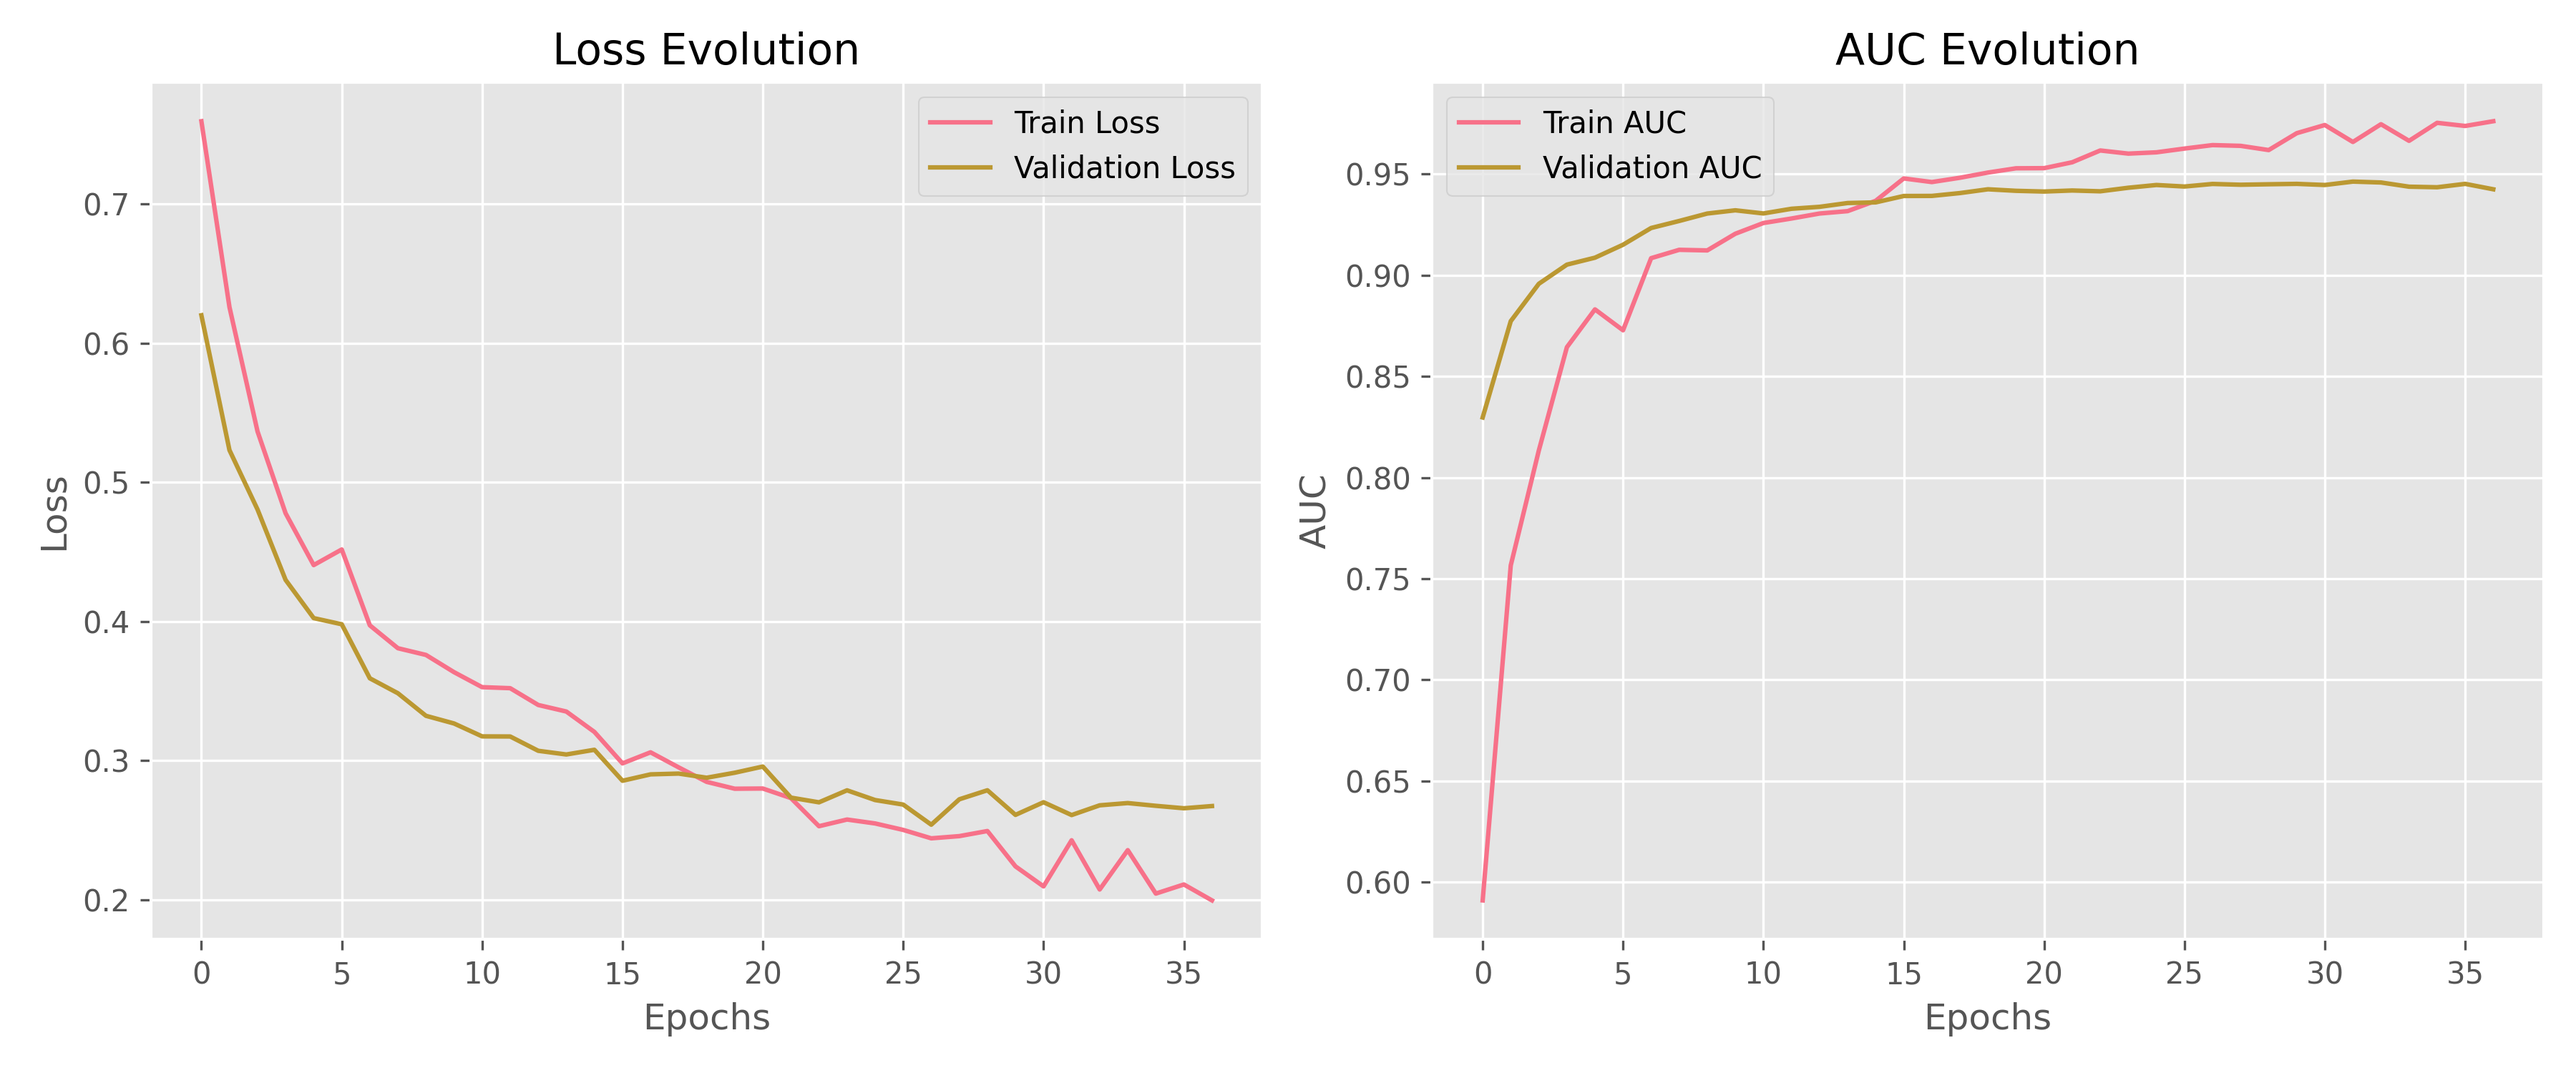
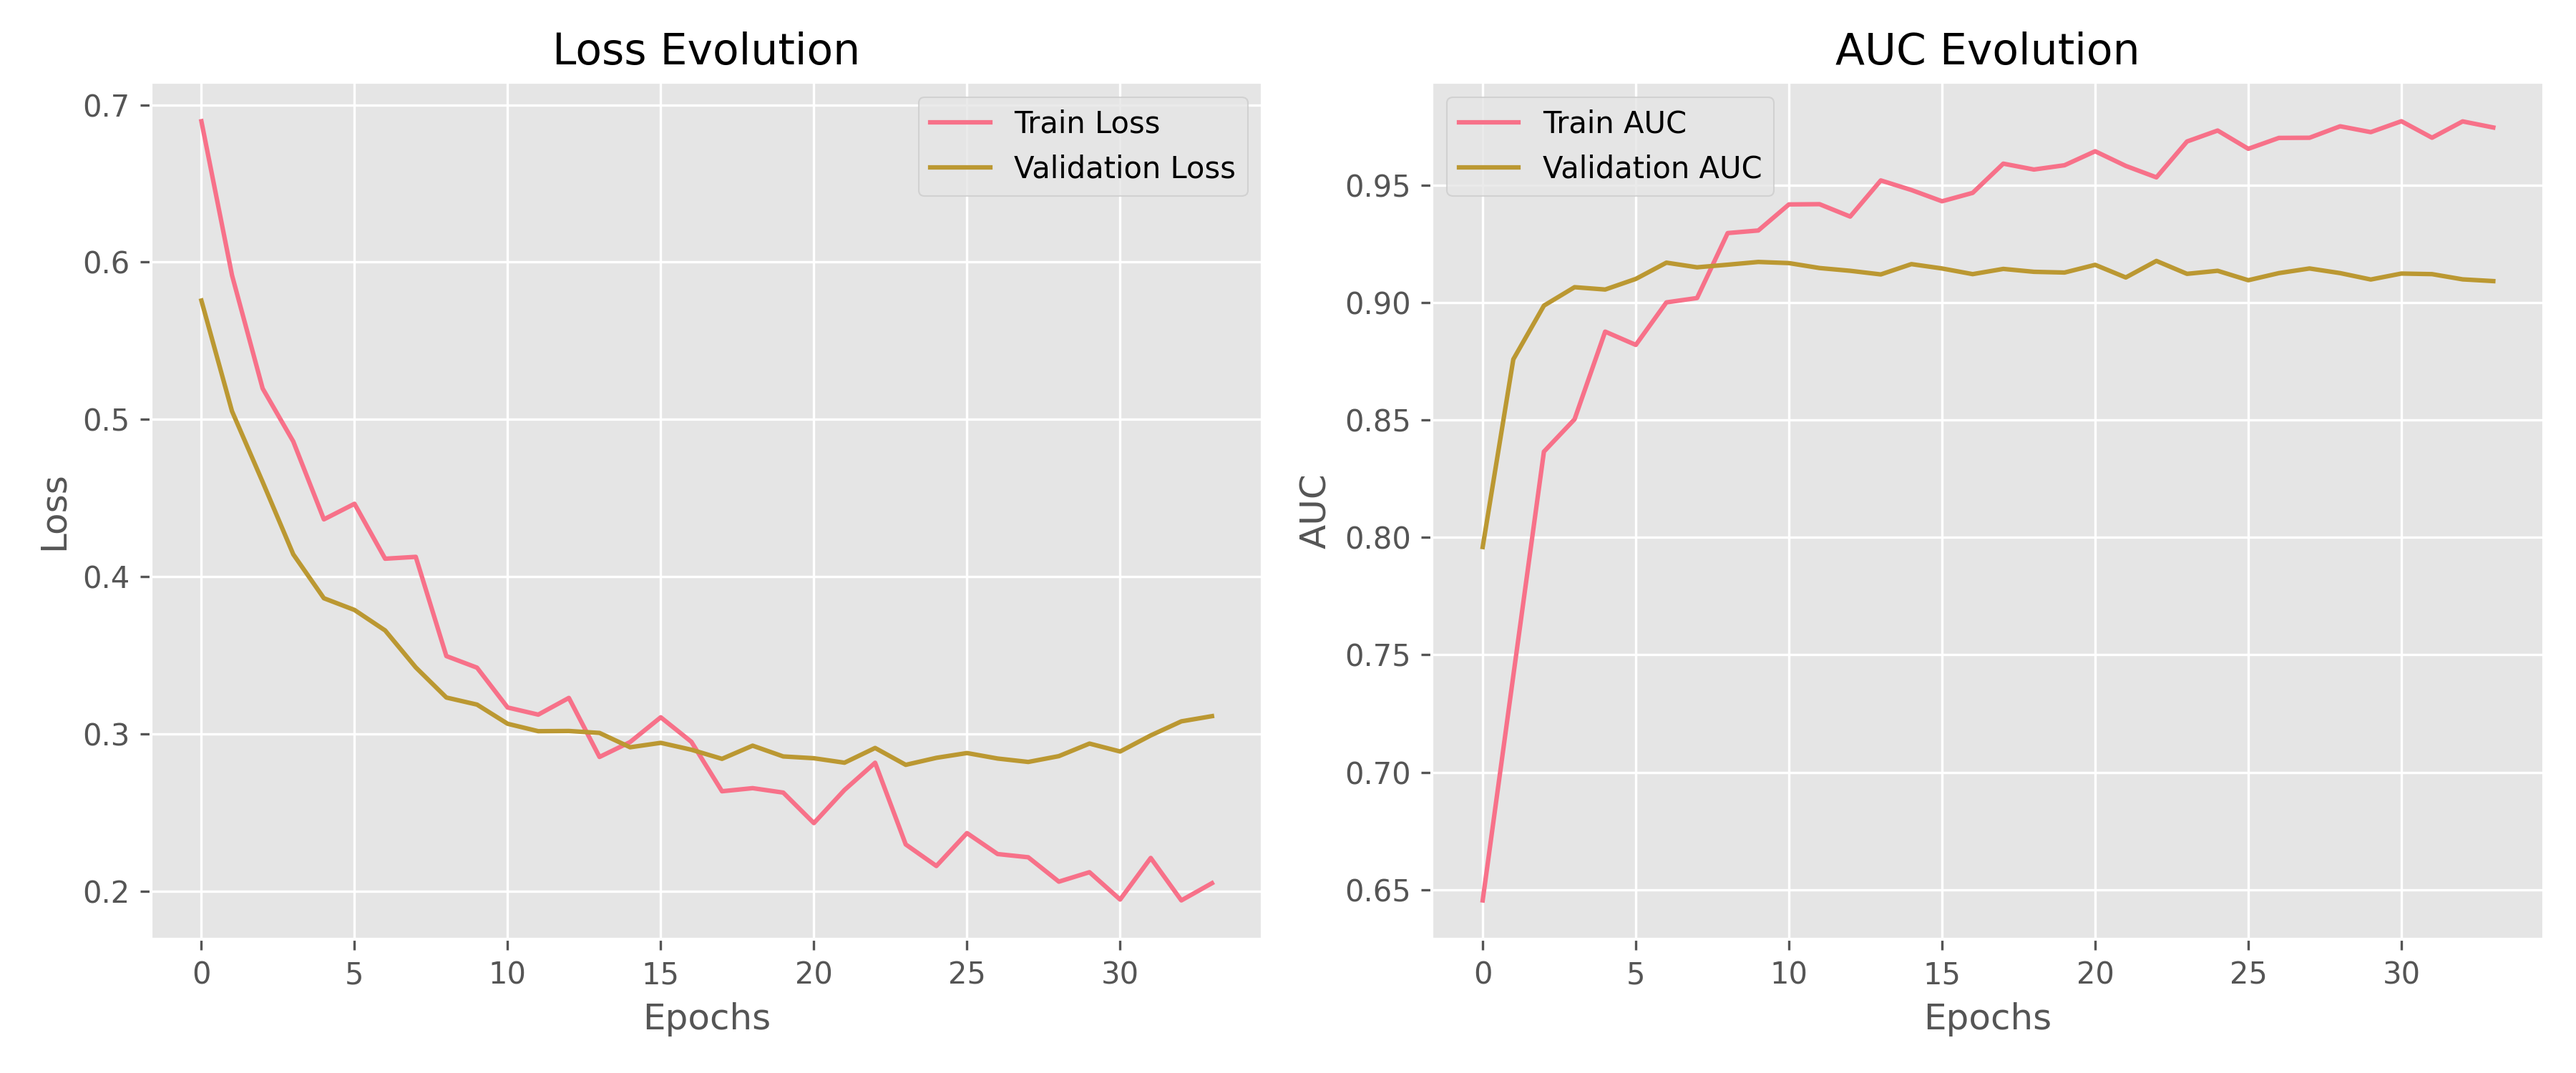
MLP v2

diff --git a/MLP.py b/MLP.py
@@ -1,10 +1,10 @@
 """
 基于神经网络的上市公司股权质押违约预测模型
-包含数据预处理、模型训练、评估可视化和预测结果输出
+包含数据预处理、模型训练、评估可视化和结果保存
 """
 
-# 导入必要库
-# ===============================核心库===============================
+# ===============================导入必要库===============================
+import os
 import pandas as pd
 import numpy as np
 from sklearn.model_selection import train_test_split
@@ -27,96 +27,54 @@ from tensorflow.keras.layers import Dense, Dropout
 from tensorflow.keras.callbacks import EarlyStopping
 from tensorflow.keras.optimizers import Adam
 
+# 创建保存结果的目录
+os.makedirs("MLP", exist_ok=True)
+
 # 配置可视化样式
 plt.style.use("ggplot")
 sns.set_palette("husl")
 
 
-# 数据预处理模块
-# ===================================================================
+# ===============================数据预处理函数===============================
 def preprocess_data(df):
-    """
-    数据预处理函数
-    功能：
-    1. 处理带有千分位逗号的数值字符串
-    2. 转换空值为NaN
-    3. 统一转换为浮点型数据
-
-    参数：
-    df -- 原始数据DataFrame
-
-    返回：
-    处理后的干净DataFrame
-    """
-    # 统一转为字符串类型便于处理特殊字符
+    """处理带特殊字符的数值数据"""
     df = df.astype(str)
-
-    # 移除数值中的逗号和空格（处理千分位表示问题）
     df = df.apply(lambda x: x.str.replace(",", "").str.strip())
-
-    # 将空字符串转换为NaN（统一缺失值表示）
     df = df.replace(r"^\s*$", np.nan, regex=True)
-
-    # 转换为浮点型数据
     return df.astype(float)
 
 
-# 数据加载与预处理
-# ===================================================================
-# 读取原始数据（注意文件路径需要根据实际情况调整）
+# ===============================数据加载与预处理===============================
+# 读取训练数据
 train_df = pd.read_csv("data/train.csv", index_col="Stock code").pipe(preprocess_data)
-test_df = pd.read_csv("data/test.csv", index_col="Stock code").pipe(preprocess_data)
 
-# 特征工程
-# ===================================================================
 # 分离特征和标签
-X_train = train_df.iloc[:, :-1]  # 前60列为特征(0-59索引)
-y_train = train_df.iloc[:, -1]  # 最后一列为标签(索引60)
-X_test = test_df  # 测试集无标签
+X = train_df.iloc[:, :-1]  # 前60列为特征
+y = train_df.iloc[:, -1]  # 最后一列为标签
 
-# 缺失值处理
-# ===================================================================
-# 确定需要填补的列（根据问题描述为第52-58列，对应索引51-57）
-cols_to_impute = X_train.columns[51:58]
+# 分层分割数据集（80%训练+验证，20%最终测试）
+X_train_all, X_test, y_train_all, y_test = train_test_split(
+    X, y, test_size=0.2, stratify=y, random_state=42
+)
 
-# 使用训练集均值填补测试集缺失值
-for col in cols_to_impute:
-    mean_val = X_train[col].mean()
-    X_test.loc[:, col] = X_test[col].fillna(mean_val)
-
-# 特征标准化
-# ===================================================================
+# ===============================特征标准化===============================
 scaler = StandardScaler()
-X_train_scaled = scaler.fit_transform(X_train)  # 在训练集上计算均值和方差
-X_test_scaled = scaler.transform(X_test)  # 在测试集上应用相同变换
+X_train_all_scaled = scaler.fit_transform(X_train_all)
+X_test_scaled = scaler.transform(X_test)
 
-# 数据集划分
-# ===================================================================
-# 分层抽样保持类别分布
+# 进一步分割训练集为训练和验证集
 X_train_split, X_val_split, y_train_split, y_val_split = train_test_split(
-    X_train_scaled,
-    y_train,
+    X_train_all_scaled,
+    y_train_all,
     test_size=0.2,
-    stratify=y_train,  # 保持违约/正常比例
+    stratify=y_train_all,
     random_state=42,
 )
 
 
-# 模型构建
-# ===================================================================
+# ===============================模型构建===============================
 def build_model(input_dim):
-    """
-    构建神经网络模型
-    结构：
-    - 输入层：64个神经元，ReLU激活
-    - Dropout层：0.3丢弃率
-    - 隐藏层：32个神经元，ReLU激活
-    - Dropout层：0.3丢弃率
-    - 输出层：1个神经元，Sigmoid激活（二分类输出）
-
-    返回：
-    编译好的模型实例
-    """
+    """构建多层感知机模型"""
     model = Sequential(
         [
             Dense(64, activation="relu", input_shape=(input_dim,)),
@@ -127,29 +85,26 @@ def build_model(input_dim):
         ]
     )
 
-    # 配置优化器
     optimizer = Adam(learning_rate=0.001)
-
-    # 编译模型
     model.compile(
         optimizer=optimizer, loss="binary_crossentropy", metrics=["accuracy", "auc"]
     )
     return model
 
 
-model = build_model(60)  # 输入维度60个特征
+model = build_model(60)
 
-# 训练配置
-# ===================================================================
-# 早停法：当验证损失连续10轮不下降时停止训练，并恢复最佳权重
+# ===============================训练配置===============================
+# 早停法配置
 early_stop = EarlyStopping(monitor="val_loss", patience=10, restore_best_weights=True)
 
-# 类别权重：处理不平衡数据
-class_weights = compute_class_weight("balanced", classes=np.unique(y_train), y=y_train)
+# 类别权重计算（处理不平衡数据）
+class_weights = compute_class_weight(
+    "balanced", classes=np.unique(y_train_all), y=y_train_all
+)
 class_weights_dict = {0: class_weights[0], 1: class_weights[1]}
 
-# 模型训练
-# ===================================================================
+# ===============================模型训练===============================
 history = model.fit(
     X_train_split,
     y_train_split,
@@ -162,15 +117,9 @@ history = model.fit(
 )
 
 
-# 训练过程可视化
-# ===================================================================
+# ===============================训练过程可视化===============================
 def plot_training_history(history):
-    """
-    绘制训练过程指标变化曲线
-    包含：
-    - 训练集 vs 验证集的损失曲线
-    - 训练集 vs 验证集的AUC曲线
-    """
+    """绘制训练指标变化曲线"""
     plt.figure(figsize=(12, 5))
 
     # 损失曲线
@@ -199,17 +148,9 @@ def plot_training_history(history):
 plot_training_history(history)
 
 
-# 模型评估
-# ===================================================================
+# ===============================模型评估函数===============================
 def evaluate_model(model, X, y, threshold=0.5):
-    """
-    综合模型评估函数
-    输出：
-    - 准确率
-    - AUC值
-    - 混淆矩阵热力图
-    - ROC曲线
-    """
+    """执行完整模型评估流程"""
     # 预测概率
     y_pred_proba = model.predict(X)
 
@@ -217,13 +158,18 @@ def evaluate_model(model, X, y, threshold=0.5):
     acc = accuracy_score(y, (y_pred_proba > threshold).astype(int))
     auc = roc_auc_score(y, y_pred_proba)
 
-    print(f"\n评估结果:")
+    # 保存评估结果到文件
+    with open("MLP/evaluation_results.txt", "w") as f:
+        f.write(f"Accuracy: {acc:.4f}\n")
+        f.write(f"AUC: {auc:.4f}\n")
+
+    print("\n评估结果:")
     print(f"Accuracy: {acc:.4f}")
     print(f"AUC: {auc:.4f}")
 
-    # 混淆矩阵
-    cm = confusion_matrix(y, (y_pred_proba > threshold).astype(int))
+    # 绘制混淆矩阵
     plt.figure(figsize=(6, 5))
+    cm = confusion_matrix(y, (y_pred_proba > threshold).astype(int))
     sns.heatmap(
         cm,
         annot=True,
@@ -236,26 +182,28 @@ def evaluate_model(model, X, y, threshold=0.5):
     plt.savefig("MLP/confusion_matrix.png", dpi=300)
     plt.show()
 
-    # ROC曲线
+    # 绘制ROC曲线
     RocCurveDisplay.from_predictions(y, y_pred_proba)
+    plt.plot([0, 1], [0, 1], "k--")
     plt.title("ROC Curve")
-    plt.plot([0, 1], [0, 1], "k--")  # 添加对角线参考线
     plt.savefig("MLP/roc_curve.png", dpi=300)
     plt.show()
 
     return acc, auc
 
 
-# 在验证集上执行评估
-val_acc, val_auc = evaluate_model(model, X_val_split, y_val_split)
+# 在测试集上进行最终评估
+test_acc, test_auc = evaluate_model(model, X_test_scaled, y_test)
 
-# 测试集预测
-# ===================================================================
-test_pred = model.predict(X_test_scaled)
-result_df = pd.DataFrame(
-    {"Stock code": test_df.index, "DefaultProbability": test_pred.flatten()}
+# ===============================特征重要性可视化===============================
+# （可选：添加更多可视化分析）
+plt.figure(figsize=(10, 6))
+plt.bar(
+    range(len(model.layers[0].weights[0].numpy().mean(axis=1))),
+    model.layers[0].weights[0].numpy().mean(axis=1),
 )
-
-# 保存预测结果
-result_df.to_csv("MLP/predictions.csv", index=False)
-print("\n预测结果已保存至 predictions.csv")
+plt.title("Feature Importance (First Layer Weights)")
+plt.xlabel("Feature Index")
+plt.ylabel("Average Weight")
+plt.savefig("MLP/feature_importance.png", dpi=300)
+plt.show()
